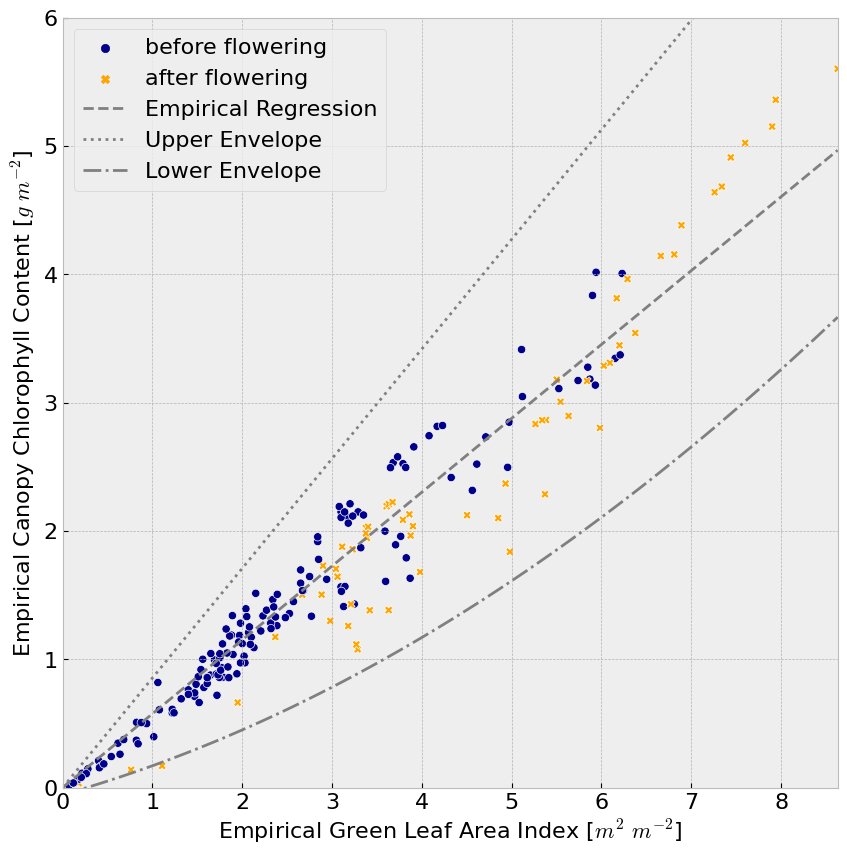
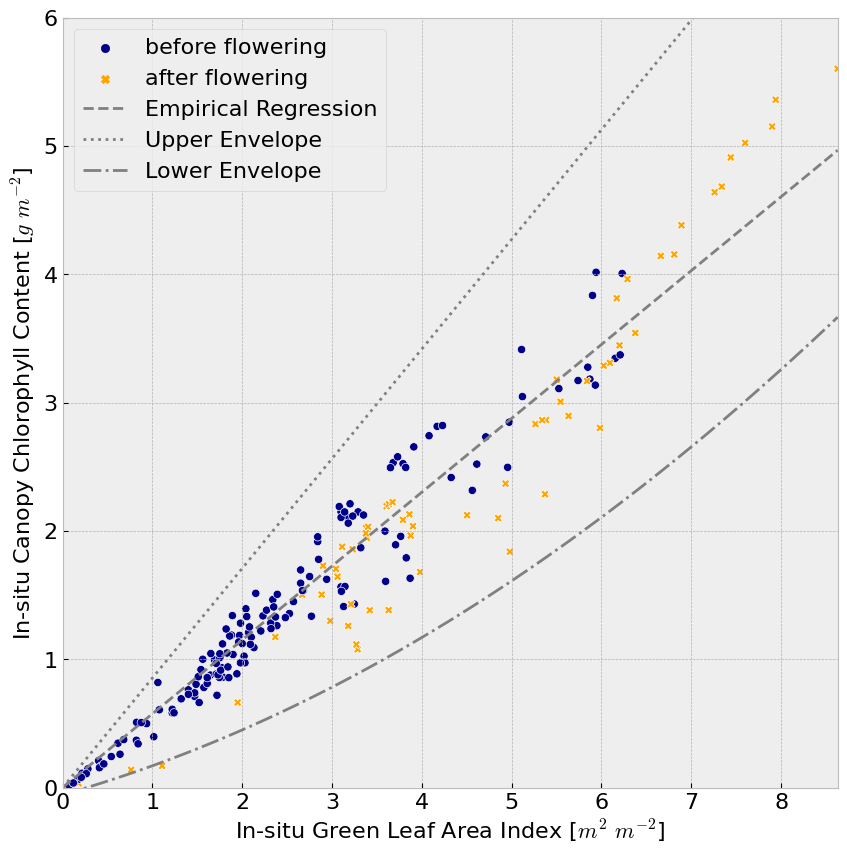
changing axis labels

diff --git a/src/figures_paper/glai_ccc_constraint.py b/src/figures_paper/glai_ccc_constraint.py
@@ -100,8 +100,8 @@ def empirircal_relationship(df: pd.DataFrame, out_dir: Path) -> None:
     f, ax = plt.subplots(figsize=(10,10))
     sns.scatterplot(x='greenLAI', y='ccc', hue='growth_class', style='growth_class', data=df, ax=ax,
                     palette=['darkblue', 'orange'], hue_order=['before flowering', 'after flowering'])
-    ax.set_ylabel('Empirical Canopy Chlorophyll Content [$g$ $m^{-2}$]', fontsize=16)
-    ax.set_xlabel('Empirical Green Leaf Area Index [$m^2$ $m^{-2}$]', fontsize=16)
+    ax.set_ylabel('In-situ Canopy Chlorophyll Content [$g$ $m^{-2}$]', fontsize=16)
+    ax.set_xlabel('In-situ Green Leaf Area Index [$m^2$ $m^{-2}$]', fontsize=16)
     sns.lineplot(x=glai_linspace, y=regr_line_all, ax=ax,
                  label=f'Empirical Regression',
                  color='grey', linestyle='dashed', linewidth=2
